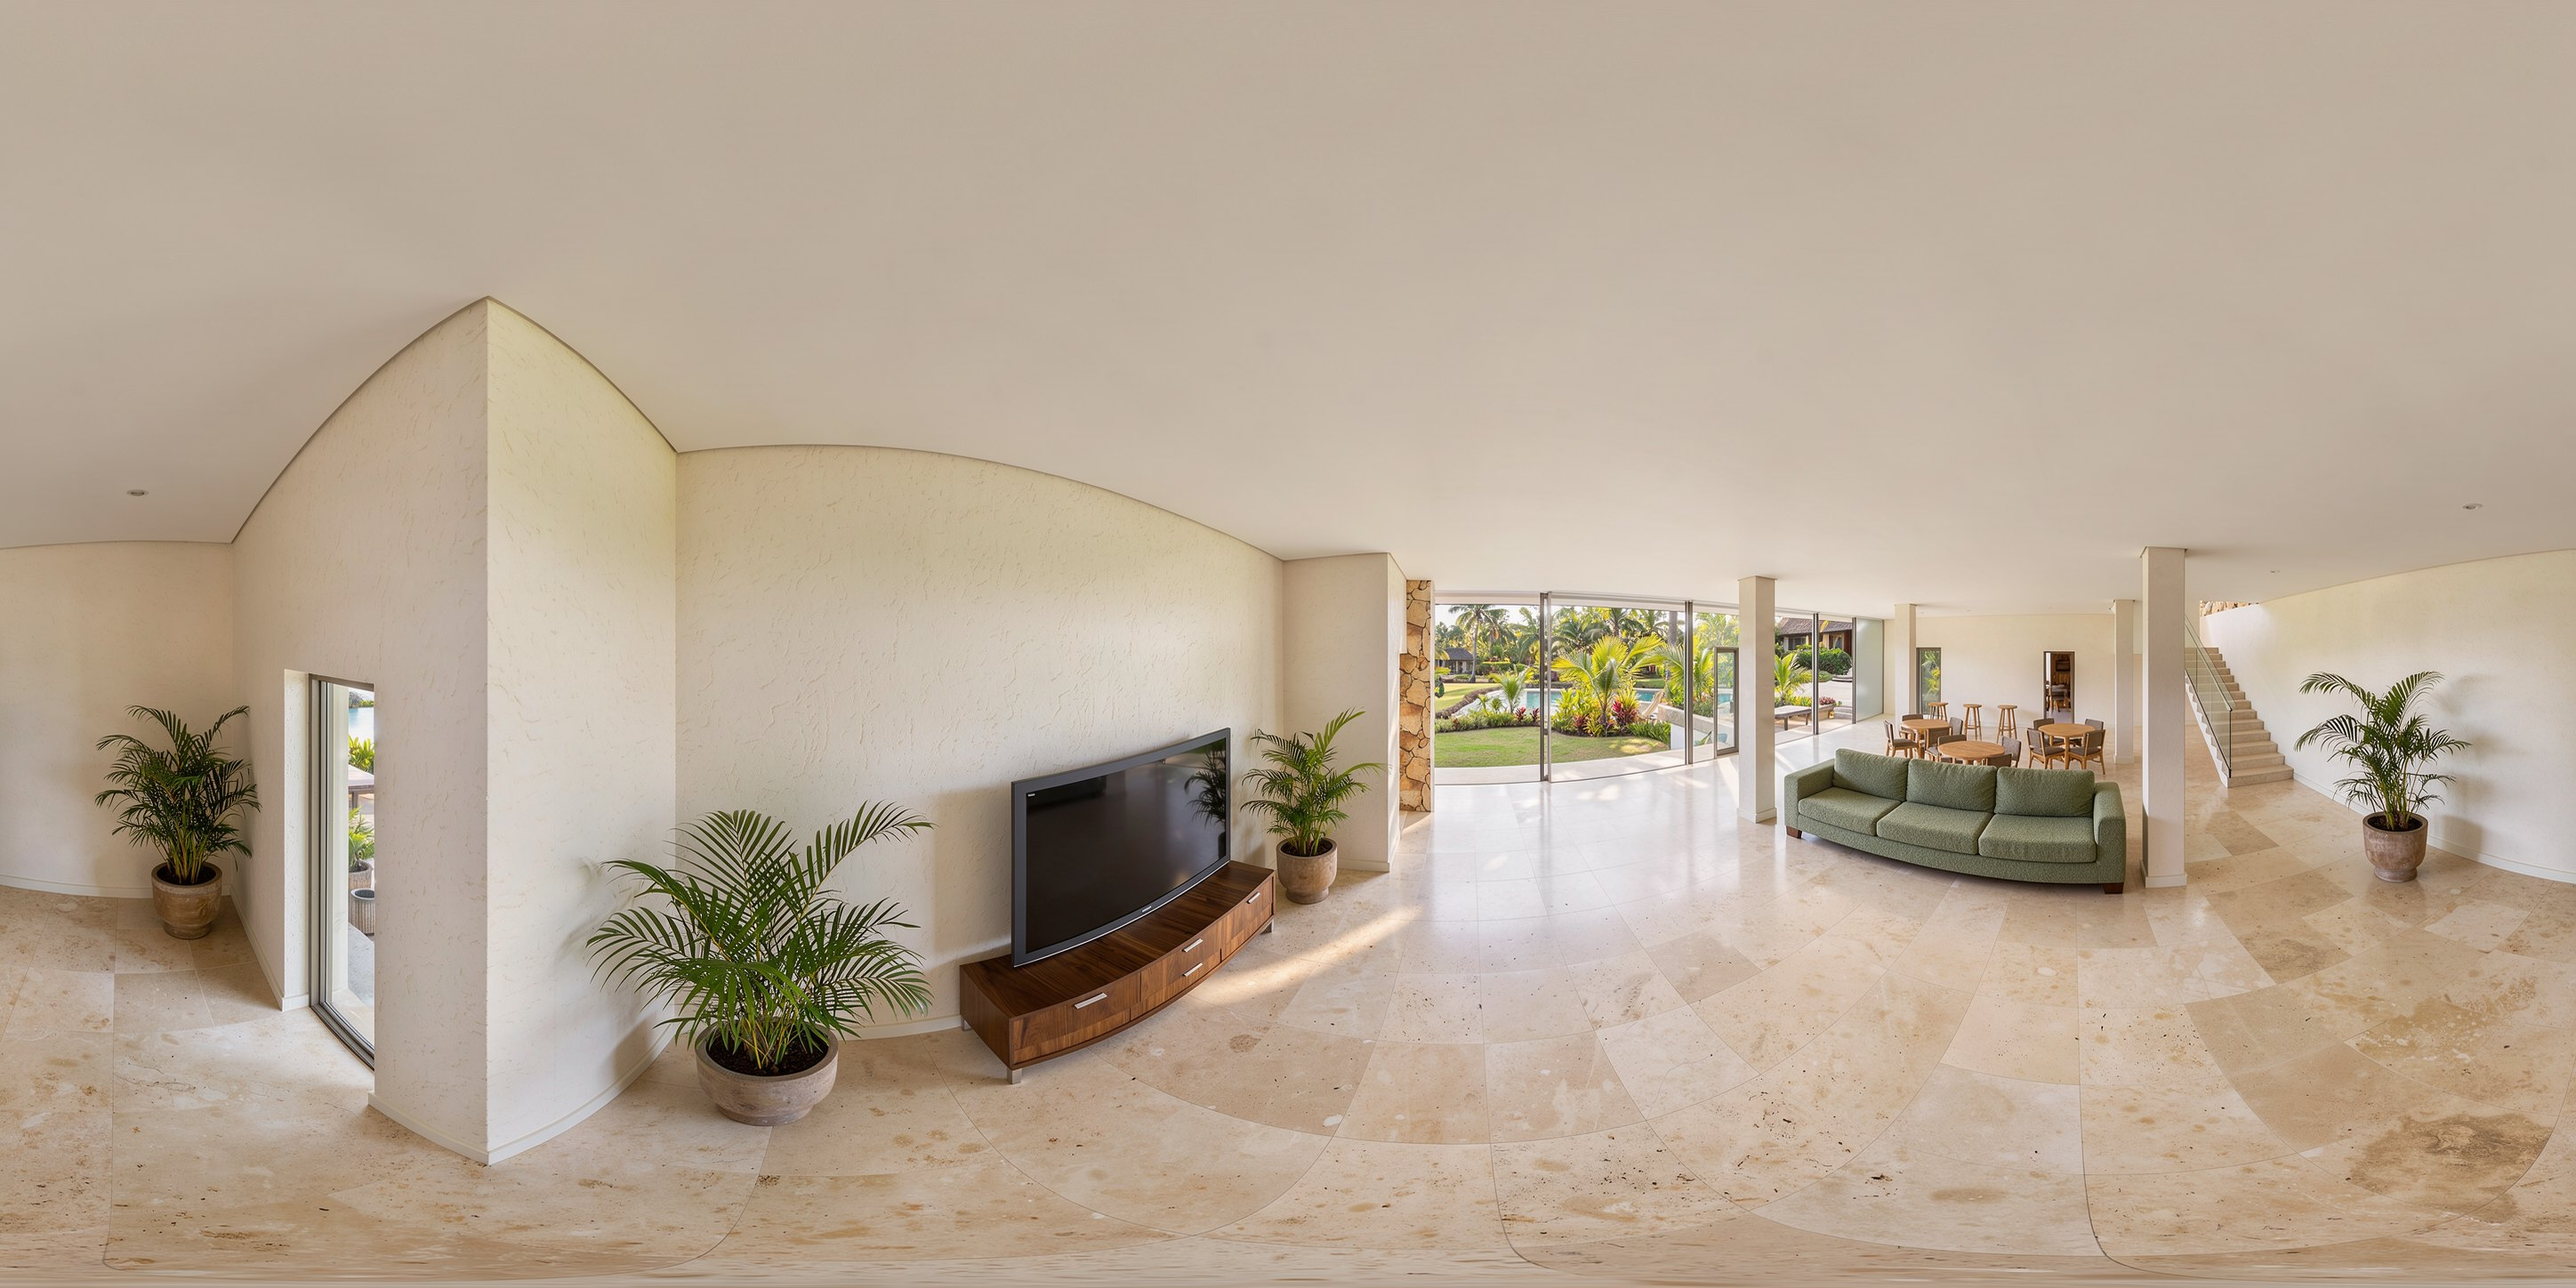
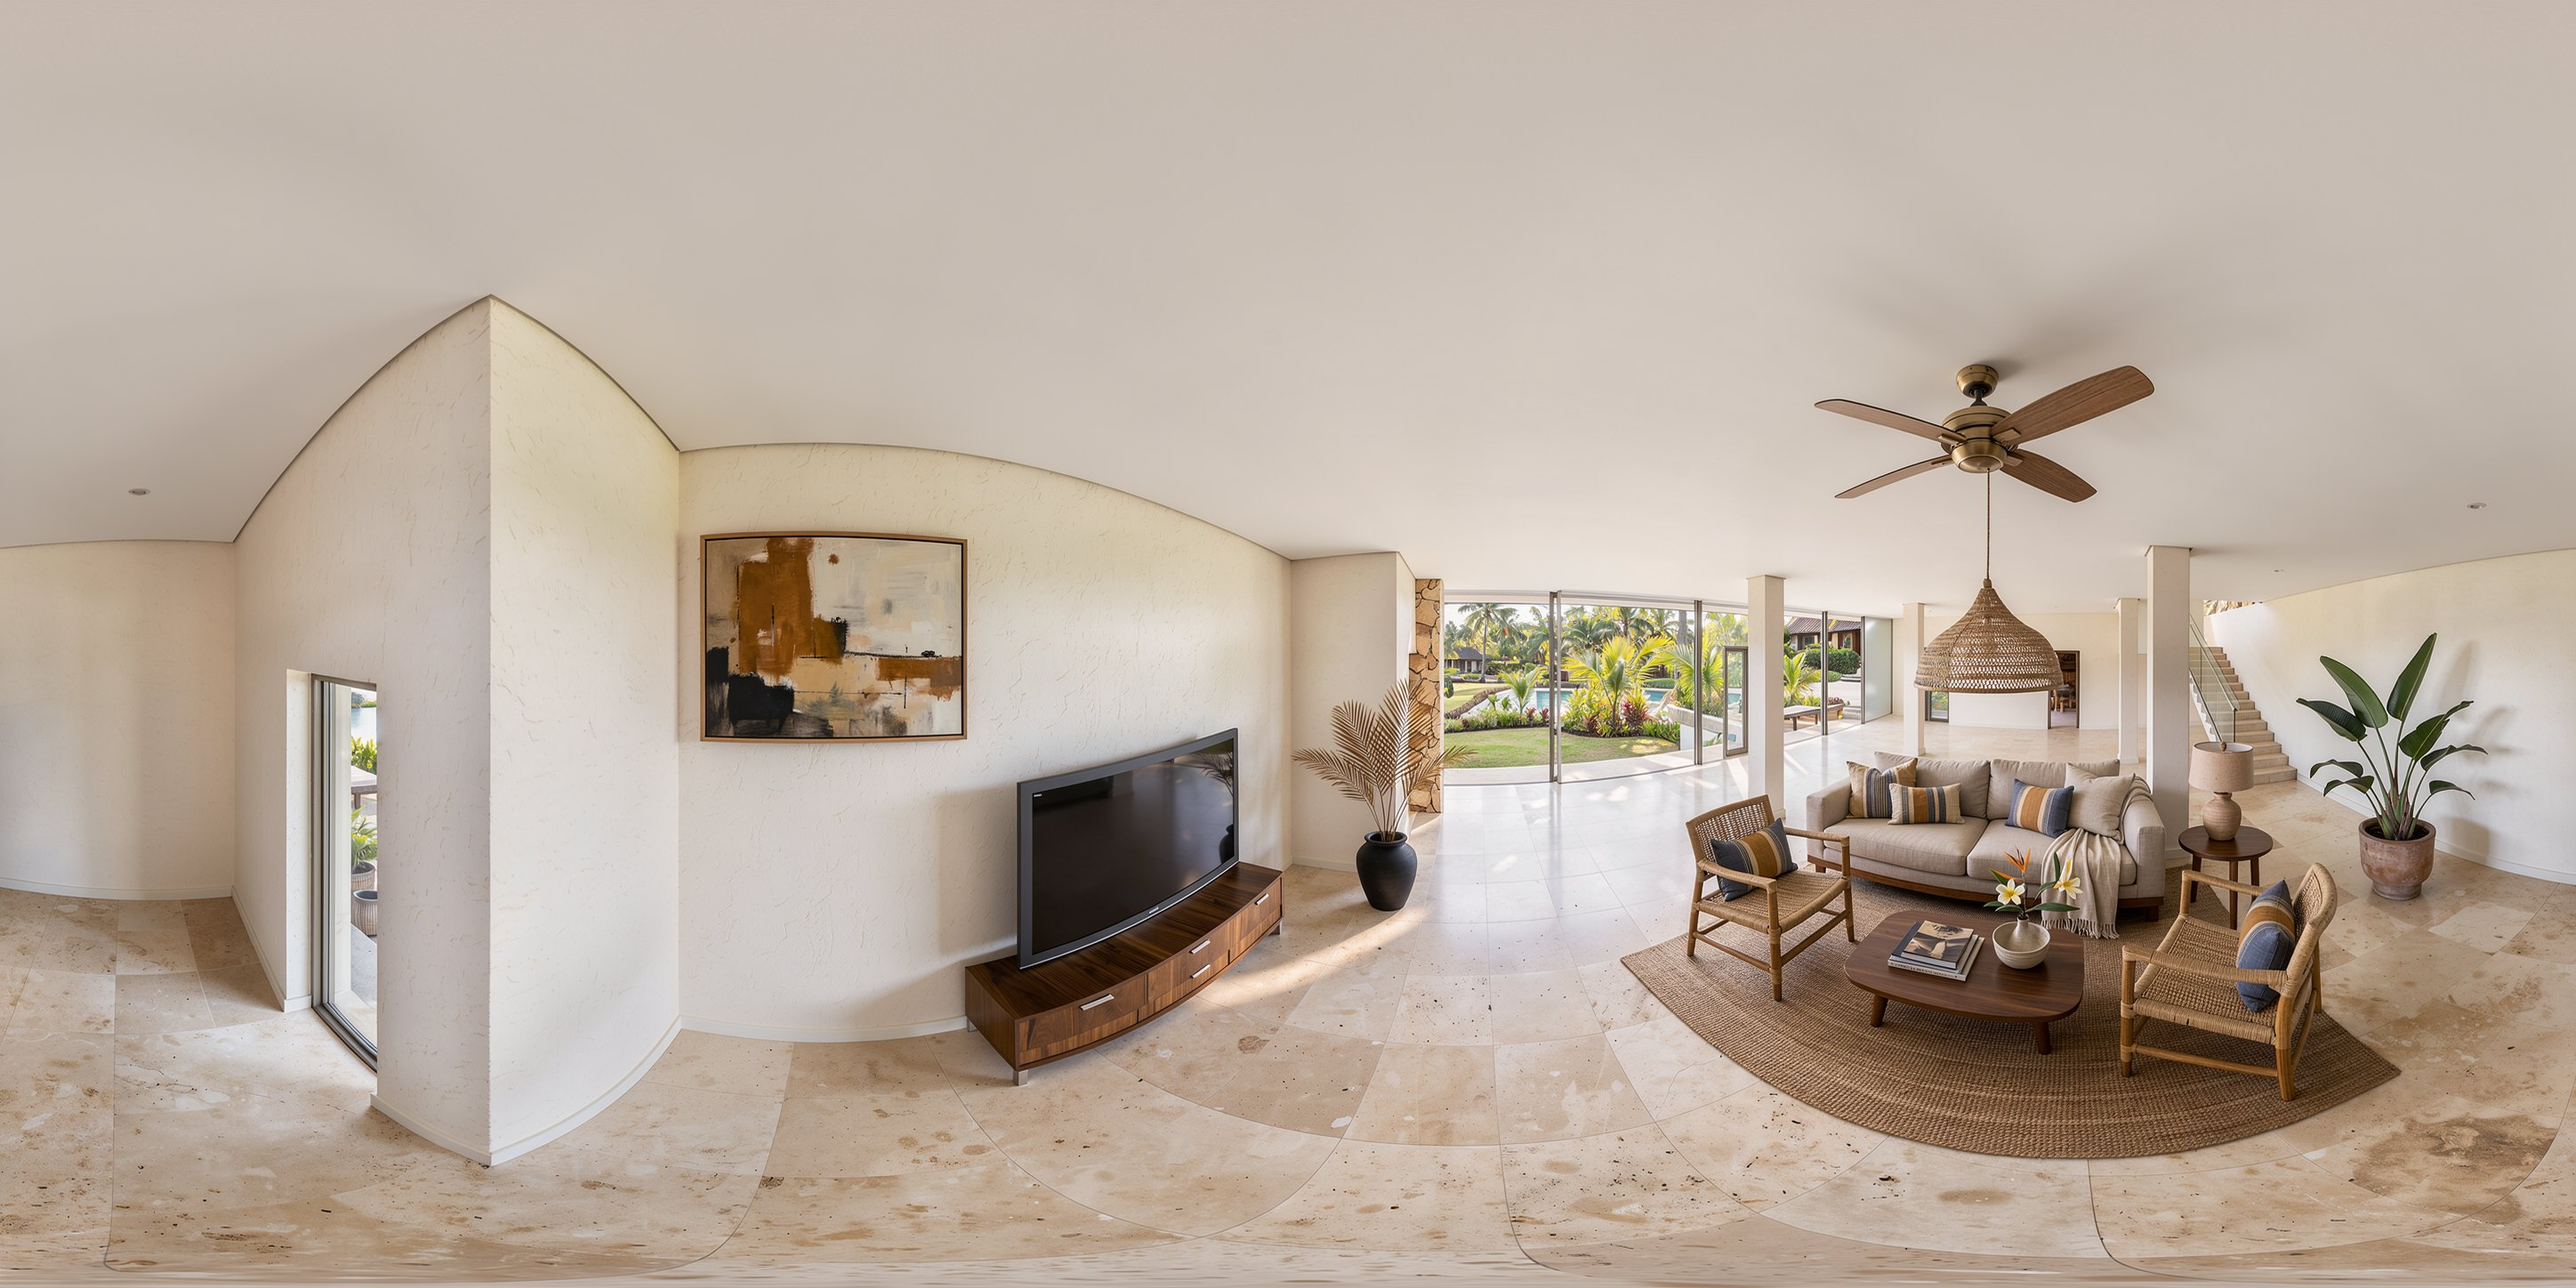
Designer-styled interior panoramas, bathroom shots, floor-plan capture
Interior panos restyled (Bawa / Aman / Barefoot textiles), shot list gets
bathroom shots for all villa types, __capture.plan() renders a cut floor plan.

diff --git a/src/Capture.tsx b/src/Capture.tsx
@@ -4,7 +4,7 @@
 import { useEffect } from 'react';
 import { useThree } from '@react-three/fiber';
 import {
-  CubeCamera, DoubleSide, HalfFloatType, Ray, Vector3, type Mesh as MeshT, LinearFilter, Mesh, OrthographicCamera, PlaneGeometry, Scene, ShaderMaterial,
+  Box3, CubeCamera, DoubleSide, Plane, HalfFloatType, Ray, Vector3, type Mesh as MeshT, LinearFilter, Mesh, OrthographicCamera, PlaneGeometry, Scene, ShaderMaterial,
   WebGLCubeRenderTarget, WebGLRenderTarget, type WebGLRenderer, type Camera, type Object3D, type PerspectiveCamera,
 } from 'three';
 import { input } from './input';
@@ -158,6 +158,25 @@ async function captureShot(gl: WebGLRenderer, scene: Scene, camera: PerspectiveC
   return deliver(blob, opts.name ?? `shot_${p.x.toFixed(1)}_${p.y.toFixed(1)}_${p.z.toFixed(1)}.jpg`, !!opts.save);
 }
 
+
+/** План этажа сверху: ортокамера, всё выше cutY отрезано. Нужен, чтобы найти помещения (ванные) на модели. */
+async function capturePlan(gl: WebGLRenderer, scene: Scene, cutY: number, name: string, px = 40) {
+  const root = (window as unknown as { __villaScene?: Object3D }).__villaScene ?? scene;
+  const b = new Box3();
+  root.traverse((o) => { const m = o as MeshT; if (m.isMesh && m.userData.role !== 'ground' && m.userData.role !== 'paving') b.expandByObject(m); });
+  const W = Math.ceil((b.max.x - b.min.x) * px), H = Math.ceil((b.max.z - b.min.z) * px);
+  const cam = new OrthographicCamera(b.min.x, b.max.x, -b.min.z, -b.max.z, 0.1, 200);
+  cam.position.set(0, cutY + 50, 0); cam.up.set(0, 0, -1); cam.lookAt(0, cutY, 0); cam.updateProjectionMatrix();
+  const size = gl.getSize(new (await import('three')).Vector2()); const pr = gl.getPixelRatio();
+  const planes = gl.clippingPlanes; gl.clippingPlanes = [new Plane(new Vector3(0, -1, 0), cutY)]; gl.localClippingEnabled = true;
+  gl.setPixelRatio(1); gl.setSize(W, H, false); gl.render(scene, cam);
+  const dataUrl = gl.domElement.toDataURL('image/jpeg', 0.9);
+  gl.clippingPlanes = planes; gl.setPixelRatio(pr); gl.setSize(size.x, size.y, false);
+  const blob = await (await fetch(dataUrl)).blob();
+  await deliver(blob, name, true);
+  return { minX: b.min.x, maxX: b.max.x, minZ: b.min.z, maxZ: b.max.z, px, W, H };
+}
+
 type ShotItem = { villa: string; id: string; kind: 'shot' | 'pano'; title: string; pos: [number, number, number]; look?: [number, number, number]; fov?: number; auto?: Parameters<typeof bestView>[1] };
 
 /** Пакетная съёмка по public/shotlist.json: телепорт в точку (полёт), взгляд на цель, кадр или панорама, сохранение в app/captures/. */
@@ -234,6 +253,7 @@ export function Capture() {
       shot: (o?: Parameters<typeof captureShot>[3]) => captureShot(gl, scene, camera as PerspectiveCamera, o),
       run: (villa: string, only?: string[]) => runShotlist(gl, scene, camera as PerspectiveCamera, villa, only),
       best: (o: Parameters<typeof bestView>[1]) => bestView(scene, o),
+      plan: (cutY: number, name: string, px?: number) => capturePlan(gl, scene, cutY, name, px),
       runComplex: (villa: string, houseId: string, only?: string[], prefix?: string) => runShotlistComplex(gl, scene, camera as PerspectiveCamera, villa, houseId, only, prefix),
     };
     (window as unknown as { __capture: unknown }).__capture = api;
